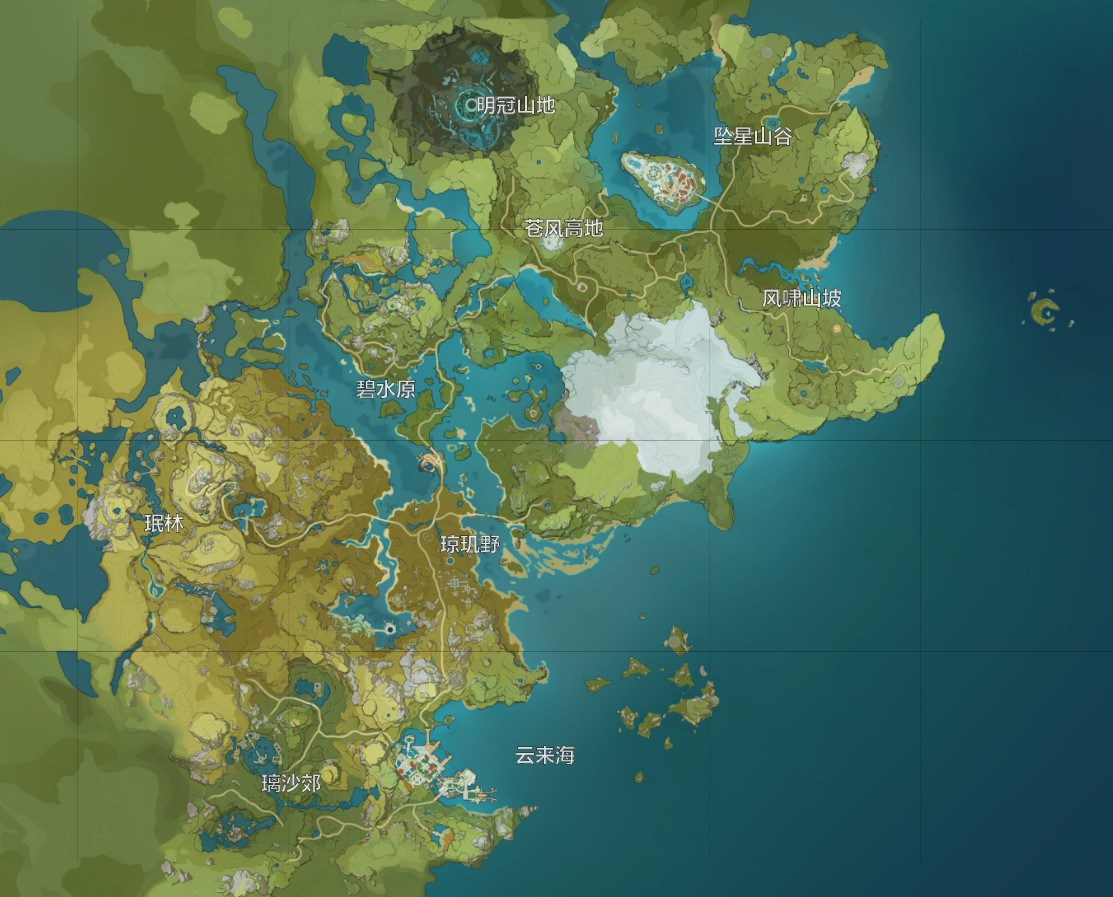
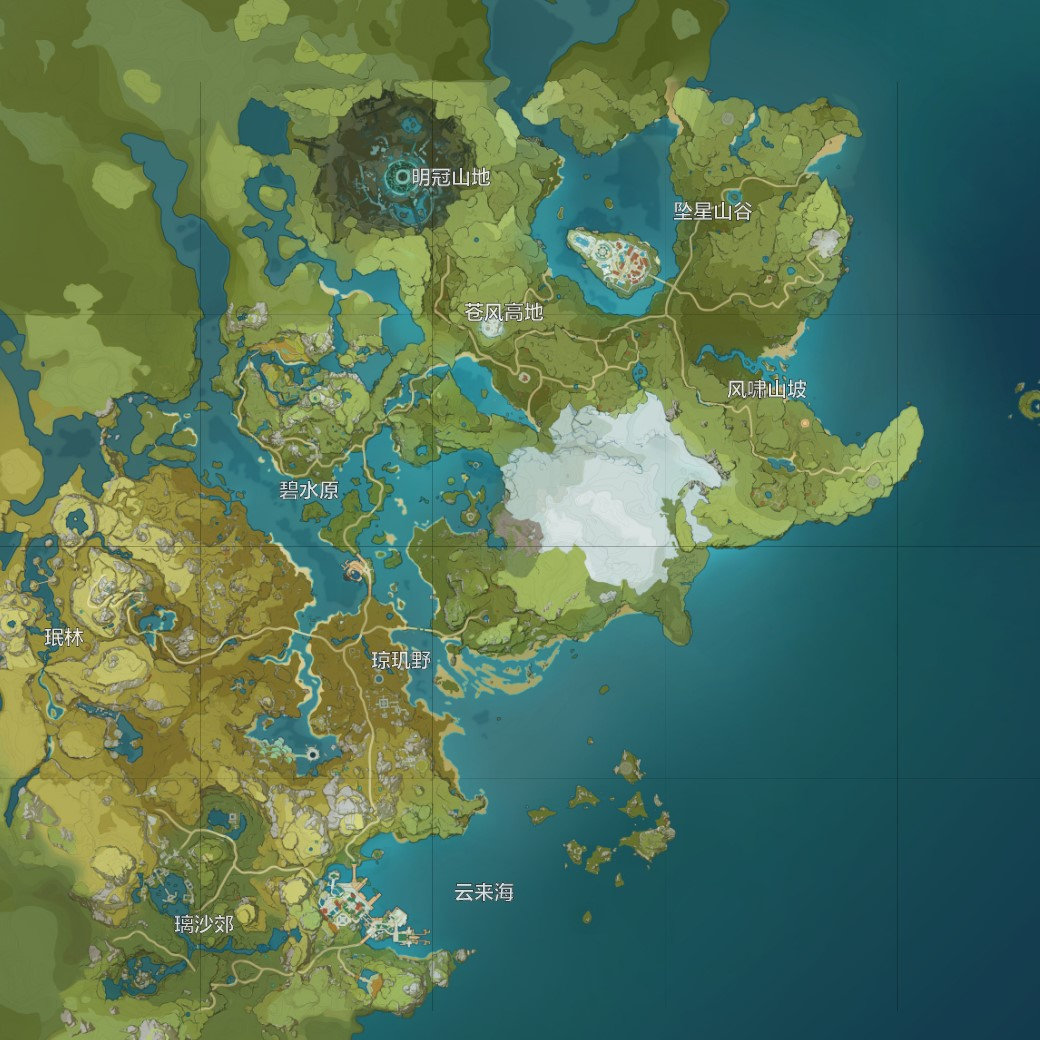
[daily] 调整地图为正方形；修改部分副本名称

diff --git a/src/views/index.vue b/src/views/index.vue
@@ -100,25 +100,23 @@
         </div>
 
       </div>
-      <div class="event-icon low-level" @click="showDungeonsInfo(0)" v-show='!inDungeons' style="    top: 15%;left: 70%;">
-        <span>lv1</span>
-      </div>
-      <div class="event-icon low-level" @click="showDungeonsInfo(1)" v-show='!inDungeons' style="top: 25%;left: 68%;"><span>lv5</span></div>
-      <div class="event-icon low-level" @click="showDungeonsInfo(2)" v-show='!inDungeons' style="top: 30%;left: 60%;"><span>lv10</span></div>
-      <div class="event-icon low-level" @click="showDungeonsInfo(3)" v-show='!inDungeons' style="top: 40%;left: 72%;"><span>lv15</span></div>
-      <div class="event-icon low-level" @click="showDungeonsInfo(4)" v-show='!inDungeons' style="top: 28%;left: 50%;"><span>lv20</span></div>
-      <div class="event-icon low-level" @click="showDungeonsInfo(5)" v-show='!inDungeons' style="top: 10%;left: 40%;"><span>lv25</span></div>
-      <div class="event-icon m-level" @click="showDungeonsInfo(6)" v-show='!inDungeons' style="top: 40%;left: 40%;"><span>lv30</span></div>
-      <div class="event-icon m-level" @click="showDungeonsInfo(7)" v-show='!inDungeons' style="top: 60%;left: 38%;"><span>lv35</span></div>
-      <div class="event-icon m-level" @click="showDungeonsInfo(8)" v-show='!inDungeons' style="top: 60%;left: 54%;"><span>lv40</span></div>
-      <div class="event-icon m-level" @click="showDungeonsInfo(9)" v-show='!inDungeons' style="top: 30%;left: 35%;"><span>lv45</span></div>
-      <div class="event-icon m-level" @click="showDungeonsInfo(10)" v-show='!inDungeons' style="top: 60%;left: 30%;"><span>lv50</span></div>
-      <div class="event-icon h-level" @click="showDungeonsInfo(11)" v-show='!inDungeons' style="top: 82%;left: 34%;"><span>lv55</span></div>
-      <div class="event-icon h-level" @click="showDungeonsInfo(12)" v-show='!inDungeons' style="top: 85%;left: 22%;"><span>lv60</span></div>
-      <div class="event-icon h-level" @click="showDungeonsInfo(13)" v-show='!inDungeons' style="top: 65%;left: 15%;"><span>lv70</span></div>
-      <div class="event-icon h-level" @click="showDungeonsInfo(14)" v-show='!inDungeons' style="top: 55%;left: 20%;"><span>lv80</span></div>
+      <div class="event-icon low-level" @click="showDungeonsInfo(0)" v-show='!inDungeons' style="top: 22%;left: 70%;"><span>lv1</span></div>
+      <div class="event-icon low-level" @click="showDungeonsInfo(1)" v-show='!inDungeons' style="top: 34%;left: 70%;"><span>lv5</span></div>
+      <div class="event-icon low-level" @click="showDungeonsInfo(2)" v-show='!inDungeons' style="top: 34%;left: 60%;"><span>lv10</span></div>
+      <div class="event-icon low-level" @click="showDungeonsInfo(3)" v-show='!inDungeons' style="top: 44%;left: 74%;"><span>lv15</span></div>
+      <div class="event-icon low-level" @click="showDungeonsInfo(4)" v-show='!inDungeons' style="top: 30%;left: 48%;"><span>lv20</span></div>
+      <div class="event-icon low-level" @click="showDungeonsInfo(5)" v-show='!inDungeons' style="top: 16%;left: 40%;"><span>lv25</span></div>
+      <div class="event-icon m-level" @click="showDungeonsInfo(6)" v-show='!inDungeons' style="top: 40%;left: 38%;"><span>lv30</span></div>
+      <div class="event-icon m-level" @click="showDungeonsInfo(7)" v-show='!inDungeons' style="top: 60%;left: 36%;"><span>lv35</span></div>
+      <div class="event-icon m-level" @click="showDungeonsInfo(8)" v-show='!inDungeons' style="top: 64%;left: 52%;"><span>lv40</span></div>
+      <div class="event-icon m-level" @click="showDungeonsInfo(9)" v-show='!inDungeons' style="top: 34%;left: 30%;"><span>lv45</span></div>
+      <div class="event-icon m-level" @click="showDungeonsInfo(10)" v-show='!inDungeons' style="top: 60%;left: 24%;"><span>lv50</span></div>
+      <div class="event-icon h-level" @click="showDungeonsInfo(11)" v-show='!inDungeons' style="top: 70%;left: 30%;"><span>lv55</span></div>
+      <div class="event-icon h-level" @click="showDungeonsInfo(12)" v-show='!inDungeons' style="top: 82%;left: 20%;"><span>lv60</span></div>
+      <div class="event-icon h-level" @click="showDungeonsInfo(13)" v-show='!inDungeons' style="top: 65%;left: 6%;"><span>lv70</span></div>
+      <div class="event-icon h-level" @click="showDungeonsInfo(14)" v-show='!inDungeons' style="top: 55%;left: 14%;"><span>lv80</span></div>
       <div class="event-icon boss" @click="showDungeonsInfo(15)" v-show='!inDungeons' style="top: 80%;left: 60%;"><span>lv90</span></div>
-      <div class="event-icon boss" @click="showDungeonsInfo(16)" v-show='!inDungeons' style="top: 30%;left: 94%;"><span>lv ∞</span></div>
+      <div class="event-icon boss" @click="showDungeonsInfo(16)" v-show='!inDungeons' style="top: 36%;left: 96%;"><span>lv ∞</span></div>
       <div class="event-icon endless" v-if="endlessLv" @click="showDungeonsInfo(17)" v-show='!inDungeons' style="top: 10%;left: 18%;"><span>深镜螺旋</span></div>
     </div>
     <div class="menu">

diff --git a/src/assets/js/dungeonsConfig.js b/src/assets/js/dungeonsConfig.js
@@ -1,6 +1,6 @@
 /**
  * 副本配置
- * @author couy69@gmail.com
+ * @author kuhung@foxmail.com
  */
 
 export const dungeonsConfig = {
@@ -9,14 +9,14 @@ export const dungeonsConfig = {
       dungeonsArr: [
         {
           battleTime: 2000,
-          name: '史莱姆森林',
+          name: '星落湖',
           time: '20',
           id: '1',
           eventNum: '5',
           lv: 1,
           needDPS: '2',
           eventType: [{
-            name: '小史莱姆',
+            name: '史莱姆',
             type: 'monster',
             eventType: 'battle',
             attribute: {
@@ -30,7 +30,7 @@ export const dungeonsConfig = {
               ],
             }
           }, {
-            name: '小史莱姆',
+            name: '史莱姆',
             type: 'monster',
             eventType: 'battle',
             attribute: {
@@ -44,7 +44,7 @@ export const dungeonsConfig = {
               ],
             }
           }, {
-            name: '小史莱姆',
+            name: '丘丘人',
             type: 'monster',
             eventType: 'battle',
             attribute: {
@@ -58,7 +58,7 @@ export const dungeonsConfig = {
               ],
             }
           }, {
-            name: '小史莱姆',
+            name: '丘丘人',
             type: 'monster',
             eventType: 'battle',
             attribute: {
@@ -72,7 +72,7 @@ export const dungeonsConfig = {
               ],
             }
           }, {
-            name: '史莱姆王',
+            name: '打手丘丘人',
             type: 'boss',
             eventType: 'battle',
             attribute: {
@@ -89,7 +89,7 @@ export const dungeonsConfig = {
         }
         , {
           battleTime: 2000,
-          name: '幽暗密林',
+          name: '风起地',
           time: '20',
           needDPS: '10',
           id: '2',

diff --git a/src/views/component/dungeons.vue b/src/views/component/dungeons.vue
@@ -364,7 +364,7 @@ export default {
         
         this.$store.commit("set_sys_info", {
           msg: `
-              获得了：金币${event.trophy.gold}
+              获得了：摩拉${event.trophy.gold}
             `,
           type: 'trophy',
           equip: items
@@ -373,7 +373,7 @@ export default {
       } else {
         this.$store.commit("set_sys_info", {
           msg: `
-              获得了：金币${event.trophy.gold}
+              获得了：摩拉${event.trophy.gold}
             `,
           type: 'trophy',
           equip: []

diff --git a/src/views/component/backpackPanel.vue b/src/views/component/backpackPanel.vue
@@ -225,7 +225,7 @@ export default {
       this.$store.commit("set_player_gold", parseInt(gold));
       this.$store.commit("set_sys_info", {
         msg: `
-              出售装备获得金币${parseInt(gold)}
+              出售装备获得摩拉 ${parseInt(gold)}
             `,
         type: 'trophy',
       });

diff --git a/dev.md b/dev.md
@@ -3,7 +3,7 @@
 ---
 1114-1115
 
-- [ ] 替换ui素材，熟悉功能逻辑
+- [x] 替换ui素材，熟悉功能逻辑
 
 ├─assets
 │  ├─css
@@ -19,4 +19,7 @@
 
 
 - [ ] 本地化适配
+    - [ ] 调整文本描述
+    - [ ] 调整增益道具UI
+    
 - [ ] 概率、玩法调整
